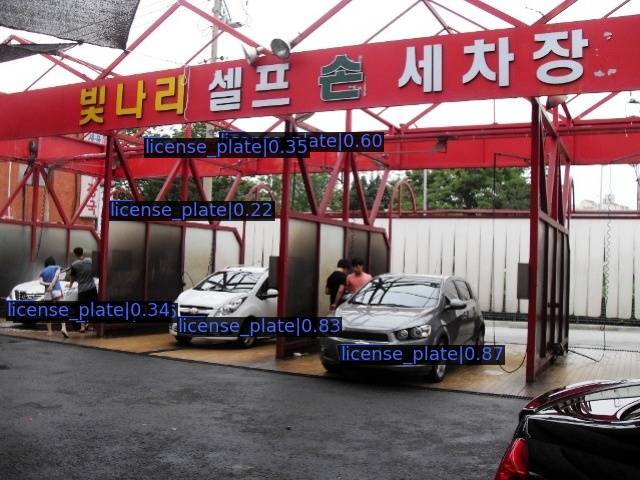
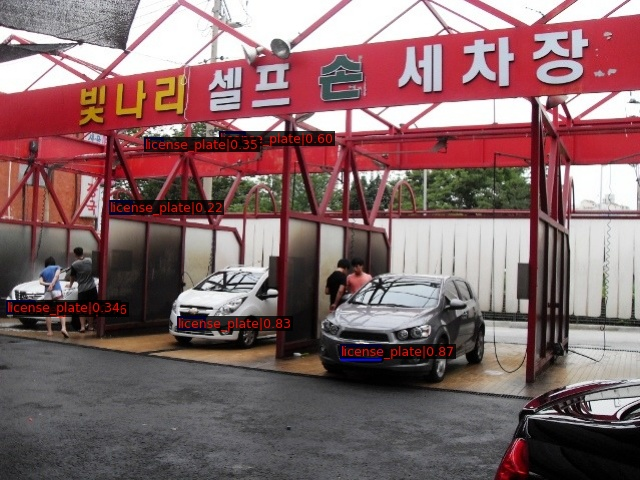
result color

diff --git a/verify_v2.py b/verify_v2.py
@@ -85,8 +85,9 @@ def show_result_pyplot2(model,
         wait_time=wait_time,
         win_name=title,
         out_file=f_name,
-        bbox_color=(72, 101, 241),
-        text_color=(72, 101, 241))
+        font_size='9',
+        bbox_color=(2, 10, 241),
+        text_color=(241, 10, 2))
 
 if __name__ == '__main__':
     args=parse_args()
